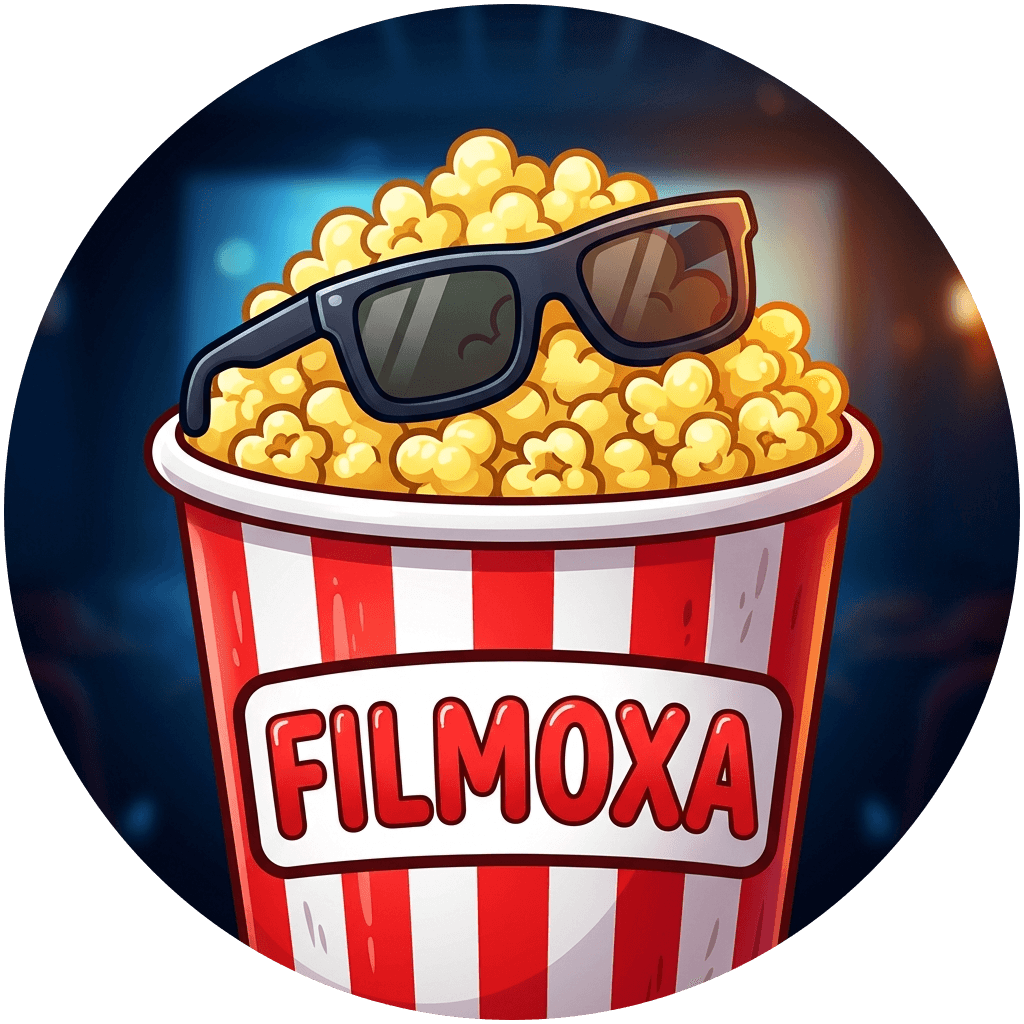
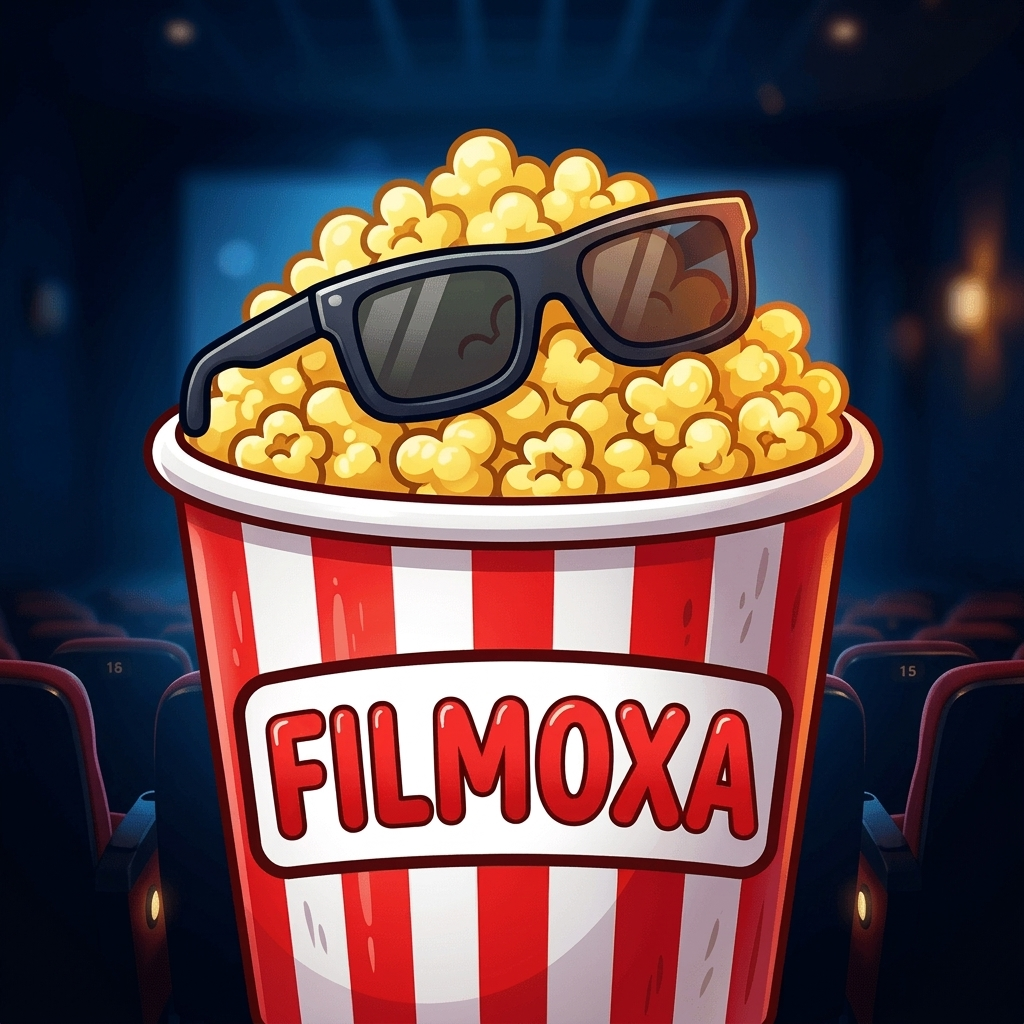
fix: full-bleed square OpenGraph card for social media (WhatsApp/FB/Twitter) without circular transparency cutouts

diff --git a/app/[locale]/page.js b/app/[locale]/page.js
@@ -79,7 +79,7 @@ export async function generateMetadata(props) {
             siteName: 'Filmoxa',
             images: [
                 {
-                    url: `${SITE_URL}/logo.png?v=2`,
+                    url: `${SITE_URL}/og-image.png?v=3`,
                     width: 1024,
                     height: 1024,
                     alt: 'Filmoxa - Watch Movies & TV Shows For Free',
@@ -92,7 +92,7 @@ export async function generateMetadata(props) {
             card: 'summary',
             title,
             description,
-            images: [`${SITE_URL}/logo.png?v=2`],
+            images: [`${SITE_URL}/og-image.png?v=3`],
         },
         keywords: isAr
             ? ['أفلام', 'مسلسلات', 'مشاهدة مجانية', 'فيلم', 'مسلسل', 'بث مباشر', 'HD']

diff --git a/app/layout.js b/app/layout.js
@@ -27,7 +27,7 @@ export const metadata = {
     type: 'website',
     images: [
       {
-        url: '/logo.png?v=2',
+        url: '/og-image.png?v=3',
         width: 1024,
         height: 1024,
         alt: 'Filmoxa - Watch Movies & TV Shows For Free',
@@ -38,7 +38,7 @@ export const metadata = {
     card: 'summary',
     title: 'Filmoxa - Free Movies & TV Shows Streaming',
     description: 'Stream thousands of top movies and TV series free on Filmoxa.',
-    images: ['/logo.png?v=2'],
+    images: ['/og-image.png?v=3'],
   },
   verification: {
     google: process.env.NEXT_PUBLIC_GOOGLE_SITE_VERIFICATION || 'RetFRXiOgoyM5G7xUBlpRIQIZ85-z80QTyCx0lX21pM',

diff --git a/app/[locale]/top-rated/page.js b/app/[locale]/top-rated/page.js
@@ -73,7 +73,7 @@ export async function generateMetadata(props) {
             siteName: 'Filmoxa',
             images: [
                 {
-                    url: `${SITE_URL}/logo.png?v=2`,
+                    url: `${SITE_URL}/og-image.png?v=3`,
                     width: 1024,
                     height: 1024,
                     alt: 'Filmoxa Top Rated',
@@ -86,7 +86,7 @@ export async function generateMetadata(props) {
             card: 'summary',
             title,
             description,
-            images: [`${SITE_URL}/logo.png?v=2`],
+            images: [`${SITE_URL}/og-image.png?v=3`],
         },
     };
 }

diff --git a/app/[locale]/tv/page.js b/app/[locale]/tv/page.js
@@ -59,7 +59,7 @@ export async function generateMetadata(props) {
             siteName: 'Filmoxa',
             images: [
                 {
-                    url: `${SITE_URL}/logo.png?v=2`,
+                    url: `${SITE_URL}/og-image.png?v=3`,
                     width: 1024,
                     height: 1024,
                     alt: 'Filmoxa TV Shows',
@@ -72,7 +72,7 @@ export async function generateMetadata(props) {
             card: 'summary',
             title,
             description,
-            images: [`${SITE_URL}/logo.png?v=2`],
+            images: [`${SITE_URL}/og-image.png?v=3`],
         },
     };
 }

diff --git a/app/[locale]/movies/page.js b/app/[locale]/movies/page.js
@@ -59,7 +59,7 @@ export async function generateMetadata(props) {
             siteName: 'Filmoxa',
             images: [
                 {
-                    url: `${SITE_URL}/logo.png?v=2`,
+                    url: `${SITE_URL}/og-image.png?v=3`,
                     width: 1024,
                     height: 1024,
                     alt: 'Filmoxa Movies',
@@ -72,7 +72,7 @@ export async function generateMetadata(props) {
             card: 'summary',
             title,
             description,
-            images: [`${SITE_URL}/logo.png?v=2`],
+            images: [`${SITE_URL}/og-image.png?v=3`],
         },
     };
 }
